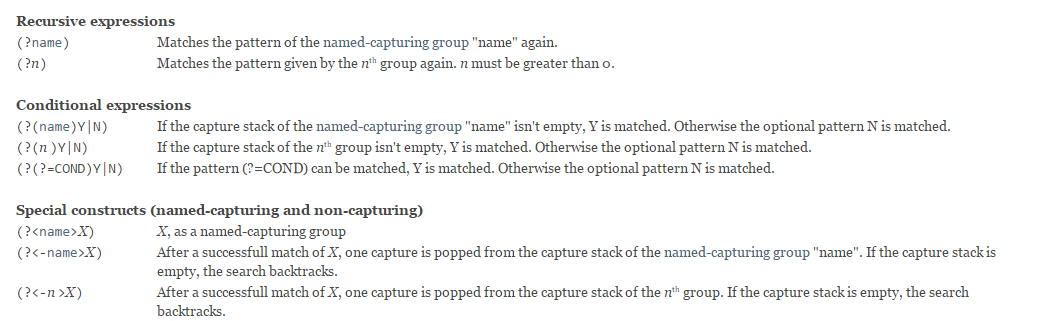
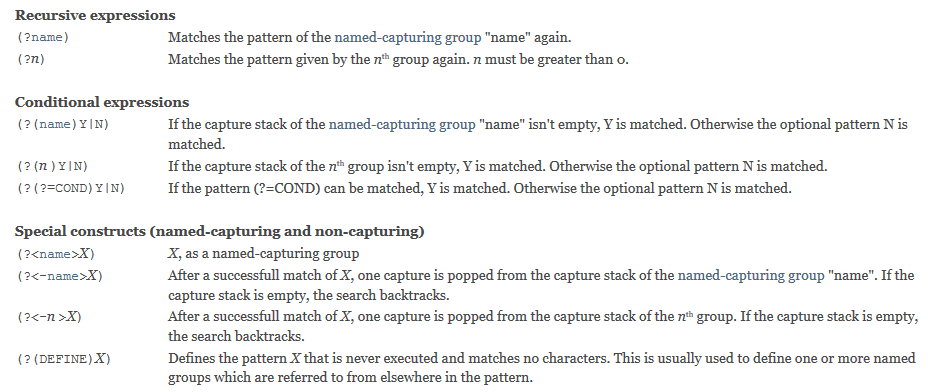
Added support for (?(DEFINE)never-executed-pattern).

diff --git a/regex/src/main/java/com/florianingerl/util/regex/Pattern.java b/regex/src/main/java/com/florianingerl/util/regex/Pattern.java
@@ -707,6 +707,11 @@ import java.util.stream.StreamSupport;
  * capture stack is empty, the search backtracks.</td>
  * </tr>
  * <tr>
+ * <td valign="top" headers="construct special"><tt>(?(DEFINE)</tt><i>X</i><tt>)</tt></td>
+ * <td headers="matches">Defines the pattern <i>X</i> that is never executed and matches no characters.
+ * This is usually used to define one or more named groups which are referred to from elsewhere in the pattern.</td>
+ * </tr>
+ * <tr>
  * <td valign="top" headers="construct special"><tt>(?:</tt><i>X</i><tt>)</tt>
  * </td>
  * <td headers="matches"><i>X</i>, as a non-capturing group</td>
@@ -3465,7 +3470,12 @@ public final class Pattern implements java.io.Serializable {
 					throw error("Unknown look-behind group");
 				}
 				break;
-			case '(': // (?(groupNumber)yes|no)
+			case '(': // (?(groupNumber)yes|no) or (?(DEFINE)regex that's not executed)
+				if( doesDEFINEFollow() ) {
+					expr(accept);
+					head = tail = new Forwarder();
+					break;
+				}
 				
 				Conditional conditional;
 				
@@ -3560,6 +3570,21 @@ public final class Pattern implements java.io.Serializable {
 		return -1;
 	}
 
+	private boolean doesDEFINEFollow()
+	{
+		int save = cursor;
+		peek();
+		int [] define = new int[]{'D','E','F','I','N','E'};
+		for(int i=0; i < define.length; ++i){
+			if( cursor >= temp.length || temp[cursor++] != define[i] ){
+				cursor = save;
+				return false;
+			}
+		}
+		accept(')', "Expected ) after DEFINE!");
+		return true;
+	}
+	
 	private int doesGroupNumberFollowBefore(int closing, boolean declared) {
 		int number = 0;
 		int ch;
@@ -4065,6 +4090,19 @@ public final class Pattern implements java.io.Serializable {
 			}
 		}
 	}
+	
+	static class Forwarder extends Node {
+		@Override
+		boolean match(Matcher matcher, int i, CharSequence seq) {
+			if( getNext() != null ) {
+				return getNext().match(matcher, i, seq );
+			}
+			else {
+				return super.match(matcher, i, seq);
+			}
+		}
+	}
+	
 	
 	static class Navigator extends Node {
 		protected int localIndex;

diff --git a/regex/src/test/java/com/florianingerl/util/regex/BoostRegExTest.java b/regex/src/test/java/com/florianingerl/util/regex/BoostRegExTest.java
@@ -842,6 +842,14 @@ public class BoostRegExTest {
 		check("namespace\\s+(\\w+)\\s+(\\{(?:[^{}]*(?:(?2)[^{}]*)*)?\\})",0|Pattern.MULTILINE|Pattern.DOTALL,"namespace one { namespace two { int foo(); } }", new int[]{0, 46,-2, -2});
 		check("namespace\\s+(\\w+)\\s+(\\{(?:[^{}]*(?:(?2)[^{}]*)*)?\\})",0|Pattern.MULTILINE|Pattern.DOTALL,"namespace one { namespace two { int foo(){} } { {{{ }  } } } {}}", new int[]{0, 64,-2, -2});
 
+		check("^(?(DEFINE) (?<A> a) (?<B> b) )  (?A) (?B) ",0|Pattern.MULTILINE|Pattern.DOTALL|Pattern.COMMENTS,"abcd", new int[]{0, 2,-2, -2});
+		check("(?(DEFINE)(?<byte>2[0-4]\\d|25[0-5]|1\\d\\d|[1-9]?\\d))\\b(?byte)(\\.(?byte)){3}",0|Pattern.MULTILINE|Pattern.DOTALL|Pattern.COMMENTS,"1.2.3.4", new int[]{0, 7,-2, -2});
+		check("(?(DEFINE)(?<byte>2[0-4]\\d|25[0-5]|1\\d\\d|[1-9]?\\d))\\b(?byte)(\\.(?byte)){3}",0|Pattern.MULTILINE|Pattern.DOTALL|Pattern.COMMENTS,"131.111.10.206", new int[]{0, 14,-2, -2});
+		check("(?(DEFINE)(?<byte>2[0-4]\\d|25[0-5]|1\\d\\d|[1-9]?\\d))\\b(?byte)(\\.(?byte)){3}",0|Pattern.MULTILINE|Pattern.DOTALL|Pattern.COMMENTS,"10.0.0.0", new int[]{0, 8,-2, -2});
+		check("(?(DEFINE)(?<byte>2[0-4]\\d|25[0-5]|1\\d\\d|[1-9]?\\d))\\b(?byte)(\\.(?byte)){3}",0|Pattern.MULTILINE|Pattern.DOTALL|Pattern.COMMENTS,"10.6", new int[]{-2, -2});
+		check("(?(DEFINE)(?<byte>2[0-4]\\d|25[0-5]|1\\d\\d|[1-9]?\\d))\\b(?byte)(\\.(?byte)){3}",0|Pattern.MULTILINE|Pattern.DOTALL|Pattern.COMMENTS,"455.3.4.5", new int[]{-2, -2});
+
+		
 		report("test_recursion");
 	}
 

diff --git a/regex/src/test/java/com/florianingerl/util/regex/RegExTest.java b/regex/src/test/java/com/florianingerl/util/regex/RegExTest.java
@@ -70,6 +70,7 @@ public class RegExTest {
 	 */
 	public static void main(String[] args) throws Exception {
 		// Most of the tests are in a file
+		defineTest();
 		processFile("TestCases.txt");
 		// processFile("PerlCases.txt");
 		processFile("BMPTestCases.txt");
@@ -104,6 +105,8 @@ public class RegExTest {
 		// Misc
 		minMaxLengthTest();
 		recursiveGroupTest();
+		
+		
 		patternStatelessTest();
 		capturesTest();
 		conditionalBasedOnValidGroupCaptureTest();
@@ -696,6 +699,13 @@ public class RegExTest {
 		report("minMaxLength");
 	}
 
+	
+	private static void defineTest() throws Exception {
+	
+		check("^(?(DEFINE)(?<A>a)(?<B>b))(?A)(?B)$","ab",true);
+		report("Define test");
+	}
+	
 	private static void recursiveGroupTest() throws Exception {
 		String pattern = "^(?<javaType>[a-zA-Z]\\w*(\\s*\\<(?<rep>\\s*(?javaType)\\s*)(,(?rep))*\\>)?)$";
 		check(pattern, "List<Integer>", true);

diff --git a/README.md b/README.md
@@ -72,7 +72,7 @@ In order to use this library, add the following dependency to your pom.xml.
 <dependency>
 	<groupId>com.github.florianingerl.util</groupId>
 	<artifactId>regex</artifactId>
-	<version>1.0.2</version>
+	<version>1.0.3</version>
 </dependency>
 ```
 
